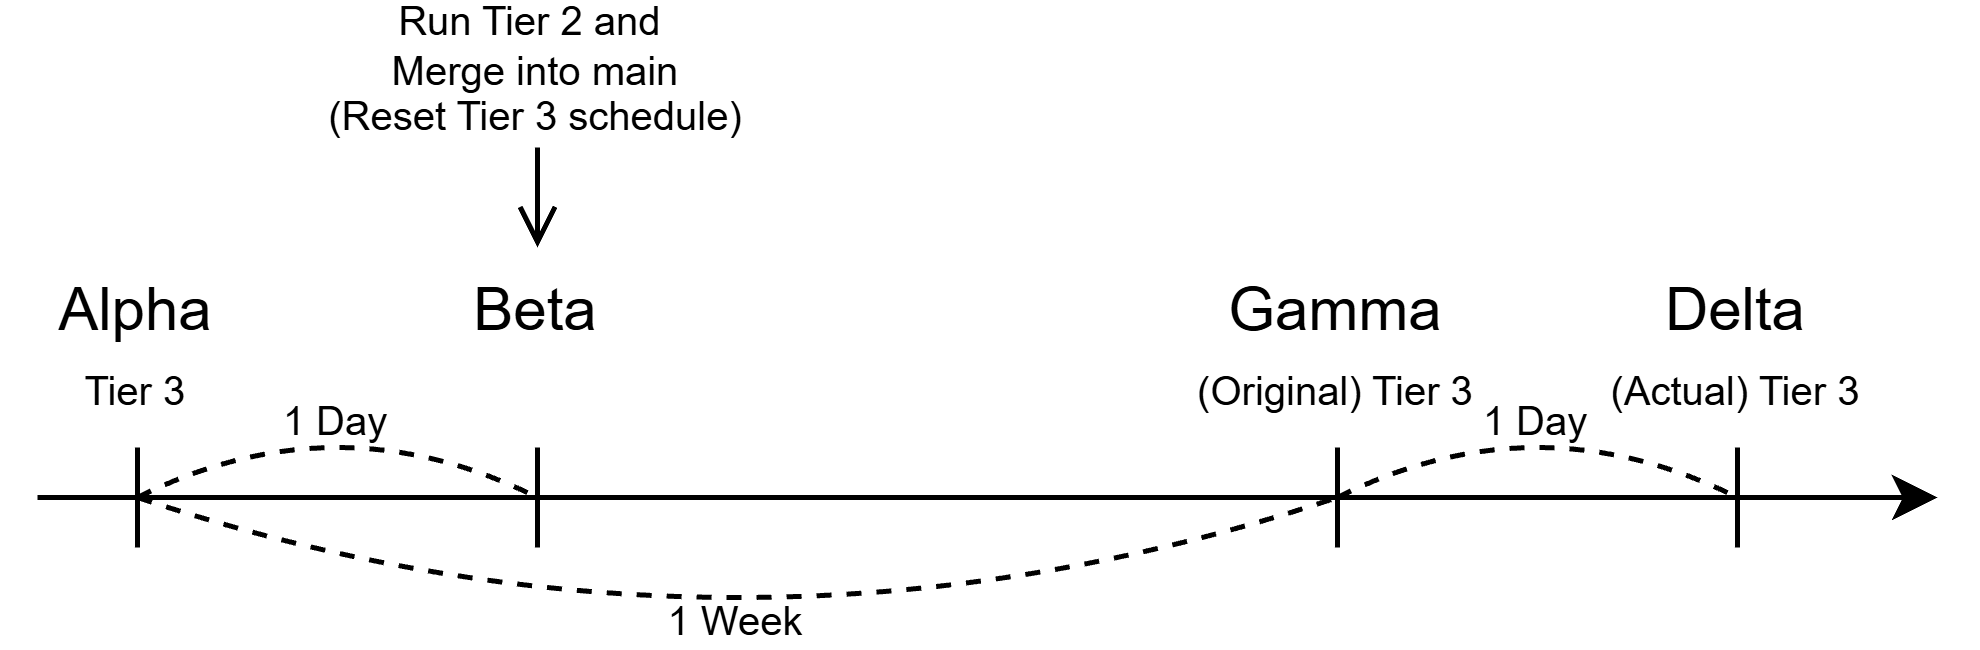
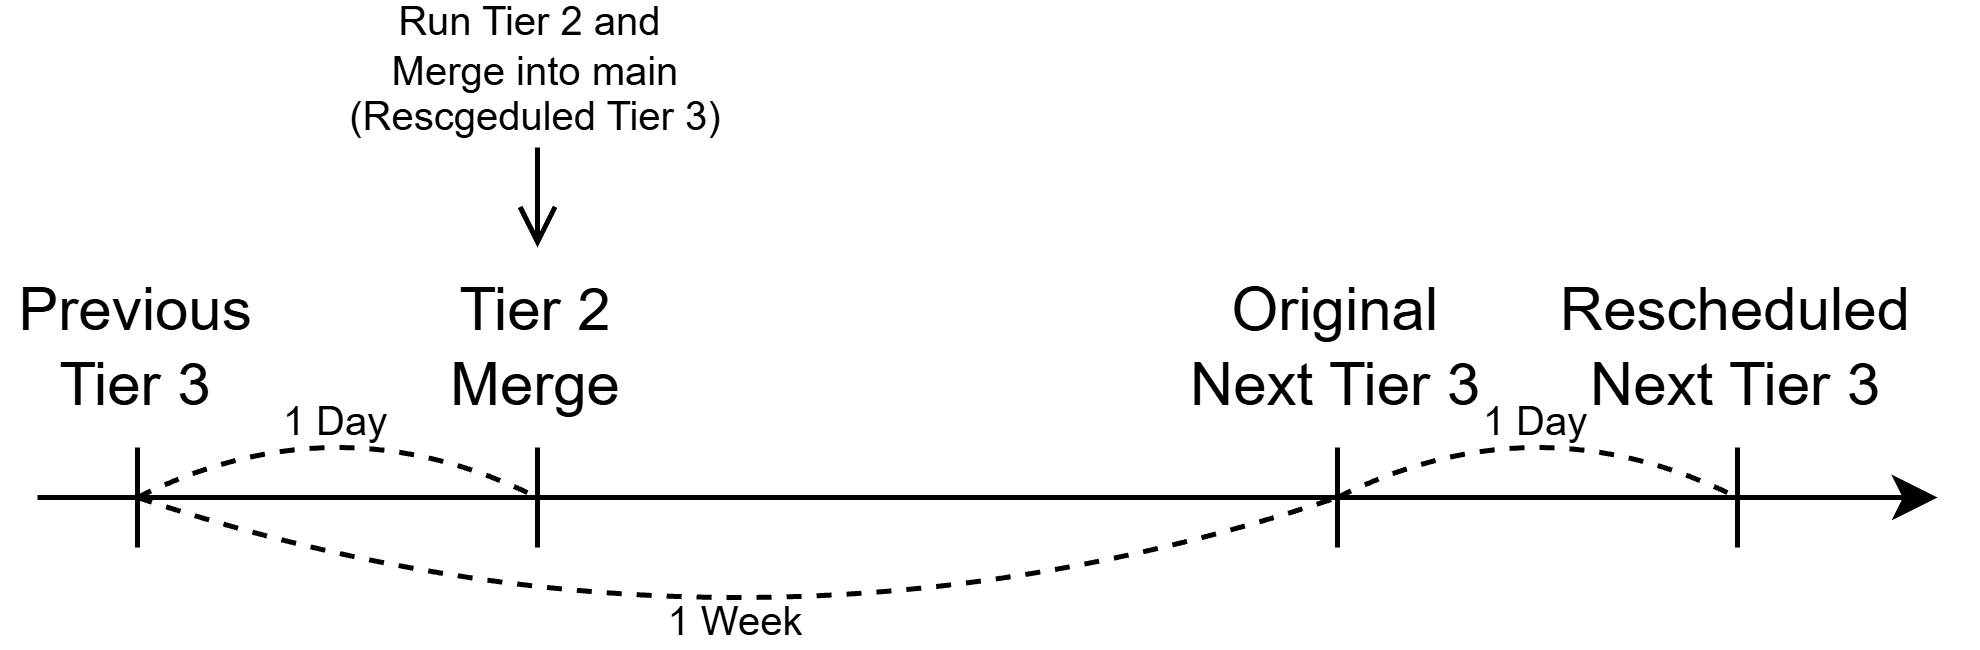
docs: clarify tier 3 reset timeline

diff --git a/docs/proposals/scenarios/example-restoration/phase-3-2026-term-2/proposal.md b/docs/proposals/scenarios/example-restoration/phase-3-2026-term-2/proposal.md
@@ -989,9 +989,13 @@ When a Tier 2 validation run is merged into `main`, the Tier 3 schedule for the 
 
 ![Tier 3 Validation Reset After Tier 2](images/Tier3-Validation-Reset-After-Tier2.png)
 
-In this timeline, `Alpha` is the previous Tier 3 baseline, `Beta` is the point where a Tier 2 validation run is merged into `main`, `Gamma` is where the original Tier 3 run would have happened if the schedule had not changed, and `Delta` is the actual Tier 3 execution time after the reset. In other words, once `Beta` lands, the framework should postpone the previously expected Tier 3 run at `Gamma` and reschedule it to `Delta` based on the configured interval after `Beta`.
+The timeline shows the reset behavior through three main time points:
 
-This reset rule applies only when the Tier 2 pull request is merged before the originally scheduled Tier 3 point at `Gamma`. If Tier 2 runs at `Beta` but the corresponding pull request is merged only after `Gamma`, then the Tier 3 run at `Gamma` should still execute as originally scheduled, because the reset condition was not satisfied before that scheduled time.
+* **Previous Tier 3:** The last scheduled Tier 3 run has completed and becomes the current validation baseline for `main`.
+* **Tier 2 Merge:** One day after the previous Tier 3 run, a Tier 2 validation run is merged into `main`. Because this merge already validates the same target set, it replaces the previous Tier 3 run as the newest validated baseline.
+* **Rescheduled Next Tier 3:** The next Tier 3 timer restarts from the Tier 2 merge point. With a one-week Tier 3 cadence, the original next Tier 3 time is skipped and the actual next Tier 3 run is pushed back by one day.
+
+This reset rule applies only when the Tier 2 pull request is merged before the originally scheduled Tier 3 time. If Tier 2 completes but the corresponding pull request is merged only after that scheduled Tier 3 point, then Tier 3 should still execute as originally scheduled, because there was no newer merged baseline available before the scheduled run time.
 
 ---
 
